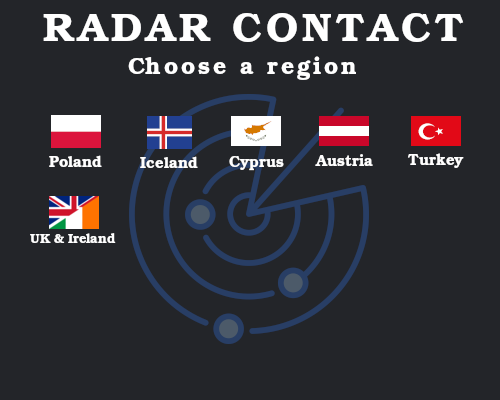
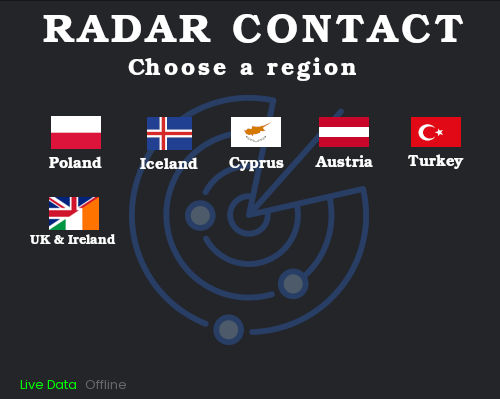
Eliminata metoda de a activa mocking-ul din CLI (acum se activeaza din meniul jocului)

diff --git a/source/Menu.cpp b/source/Menu.cpp
@@ -5,8 +5,7 @@
 #include "../header/Menu.h"
 #include "../header/ResourcesManager.h"
 
-Menu::Menu() :
-        Window({500, 400}, "Radar Contact - Menu")
+Menu::Menu() : Window({500, 400}, "Radar Contact - Menu")
 {
     m_background.setTexture(ResourcesManager::Instance().getTexture("menu.png"));
 
@@ -32,6 +31,19 @@ Menu::Menu() :
 
     button.setPosition(50,197);
     m_regionsButtons.emplace_back(button, "UK");
+
+
+    liveData.setFont(ResourcesManager::Instance().getFont("Poppins-Regular.ttf"));
+    localData.setFont(ResourcesManager::Instance().getFont("Poppins-Regular.ttf"));
+
+    liveData.setString("Live Data");
+    localData.setString("Offline");
+
+    liveData.setPosition(20, 375);
+    localData.setPosition(85, 375);
+
+    liveData.setCharacterSize(13);
+    localData.setCharacterSize(13);
 }
 
 void Menu::render()
@@ -44,11 +56,23 @@ void Menu::render()
         m_window.draw(regionsButton.first);
     }
 
+    m_window.draw(liveData);
+    m_window.draw(localData);
+
     m_window.display();
 }
 
 void Menu::update()
 {
+    if(ResourcesManager::Instance().isMockingEnabled()) {
+        liveData.setFillColor(sf::Color(209, 206, 199, 100));
+        localData.setFillColor(sf::Color::Green);
+    }
+    else {
+        localData.setFillColor(sf::Color(209, 206, 199, 100));
+        liveData.setFillColor(sf::Color::Green);
+    }
+
     checkHovers();
 }
 
@@ -100,6 +124,13 @@ void Menu::handleEvent()
                         ResourcesManager::Instance().loadRegion(regionButtons.second);
                         m_window.close();
                     }
+                }
+
+                if(liveData.getGlobalBounds().contains(float_mouse_position)) {
+                    ResourcesManager::Instance().setMocking(false);
+                }
+                else if(localData.getGlobalBounds().contains(float_mouse_position)) {
+                    ResourcesManager::Instance().setMocking(true);
                 }
 
                 break;

diff --git a/source/ResourcesManager.cpp b/source/ResourcesManager.cpp
@@ -5,6 +5,22 @@
 #include "../header/ResourcesManager.h"
 #include <mutex>
 
+ResourcesManager::ResourcesManager() : m_randomFacts{
+                                        "Planes can fly with only one engine.",
+                                        "Pilots and copilots typically eat different meals.",
+                                        "The cabin is dimmed upon landing for emergency measures.",
+                                        "The tanks of oxygen for passenger masks are only supposed to last 15 minutes.",
+                                        "The tiny hole in the passenger windows helps regulate cabin pressure.",
+                                        "Travelers lose out on over a third of their taste buds during flight.",
+                                        "The first female pilot was a woman named Raymonde de Laroche.",
+                                        "A Boeing 747 is made up of six million parts",
+                                        "More than 80% of the population is afraid of flying",
+                                        "Each engine on a Boeing 747 weighs almost 9,500 pounds"},
+                                        m_usingMockApi(false)
+{
+
+}
+
 void ResourcesManager::load()
 {
     loadTextures("menu.png");
@@ -17,8 +33,8 @@ void ResourcesManager::load()
     loadFonts("Raleway-Regular.ttf");
 }
 
-void ResourcesManager::enableMockApi() {
-    m_usingMockApi = true;
+void ResourcesManager::setMocking(bool status) {
+    m_usingMockApi = status;
 }
 
 bool ResourcesManager::isMockingEnabled() const {

diff --git a/header/ResourcesManager.h b/header/ResourcesManager.h
@@ -70,21 +70,10 @@ public:
     void load();
 
     bool isMockingEnabled() const;
-    void enableMockApi();
+    void setMocking(bool status);
 
 private:
-    ResourcesManager() : m_randomFacts{
-            "Planes can fly with only one engine.",
-            "Pilots and copilots typically eat different meals.",
-            "The cabin is dimmed upon landing for emergency measures.",
-            "The tanks of oxygen for passenger masks are only supposed to last 15 minutes.",
-            "The tiny hole in the passenger windows helps regulate cabin pressure.",
-            "Travelers lose out on over a third of their taste buds during flight.",
-            "The first female pilot was a woman named Raymonde de Laroche.",
-            "A Boeing 747 is made up of six million parts",
-            "More than 80% of the population is afraid of flying",
-            "Each engine on a Boeing 747 weighs almost 9,500 pounds",
-    } {}
+    ResourcesManager();
 
     void loadTextures(const std::string &textureName);
     void loadFonts(const std::string &fontName);

diff --git a/main.cpp b/main.cpp
@@ -31,13 +31,9 @@ si in anumite cazuri entitatile sa aibe un timp pana la prabusire => pot fi prel
 
 #include <string>
 
-int main(int argc, char **argv) {
+int main() {
     try {
         ResourcesManager::Instance().load();
-
-        if (argc == 2 && std::string(argv[1]) == "MOCK_API") {
-            ResourcesManager::Instance().enableMockApi();
-        }
 
         Menu menu;
         menu.run();

diff --git a/header/Menu.h b/header/Menu.h
@@ -24,6 +24,8 @@ private:
     sf::Texture m_texture;
     sf::Sprite m_background;
 
+    sf::Text liveData, localData;
+
     std::vector<std::pair<sf::RectangleShape, std::string>> m_regionsButtons;
 };
 

diff --git a/README.md b/README.md
@@ -6,6 +6,11 @@ Run the game and choose a region. Available regions: Poland, Iceland, Cyprus, Au
 
 ![Alt Text](./preview/menu.png)
 
+In case of a missing network connection or if you prefer not to download live data, you can play in Offline mode using 
+local data. To achieve this, press the "Offline" button.
+
+![Alt Text](./preview/live_data.gif)
+
 After that, control your airspace! Give instructions to airplanes, helicopters and hot air balloons to arrive to their airports.
 
 A flying entity will disconnect from your frequency when it is inside the arrival airport coverage area (the yellow circles). In order to disconnect, some conditions are required: altitude must be below 10000ft and the airspeed must be below 250 knots.
